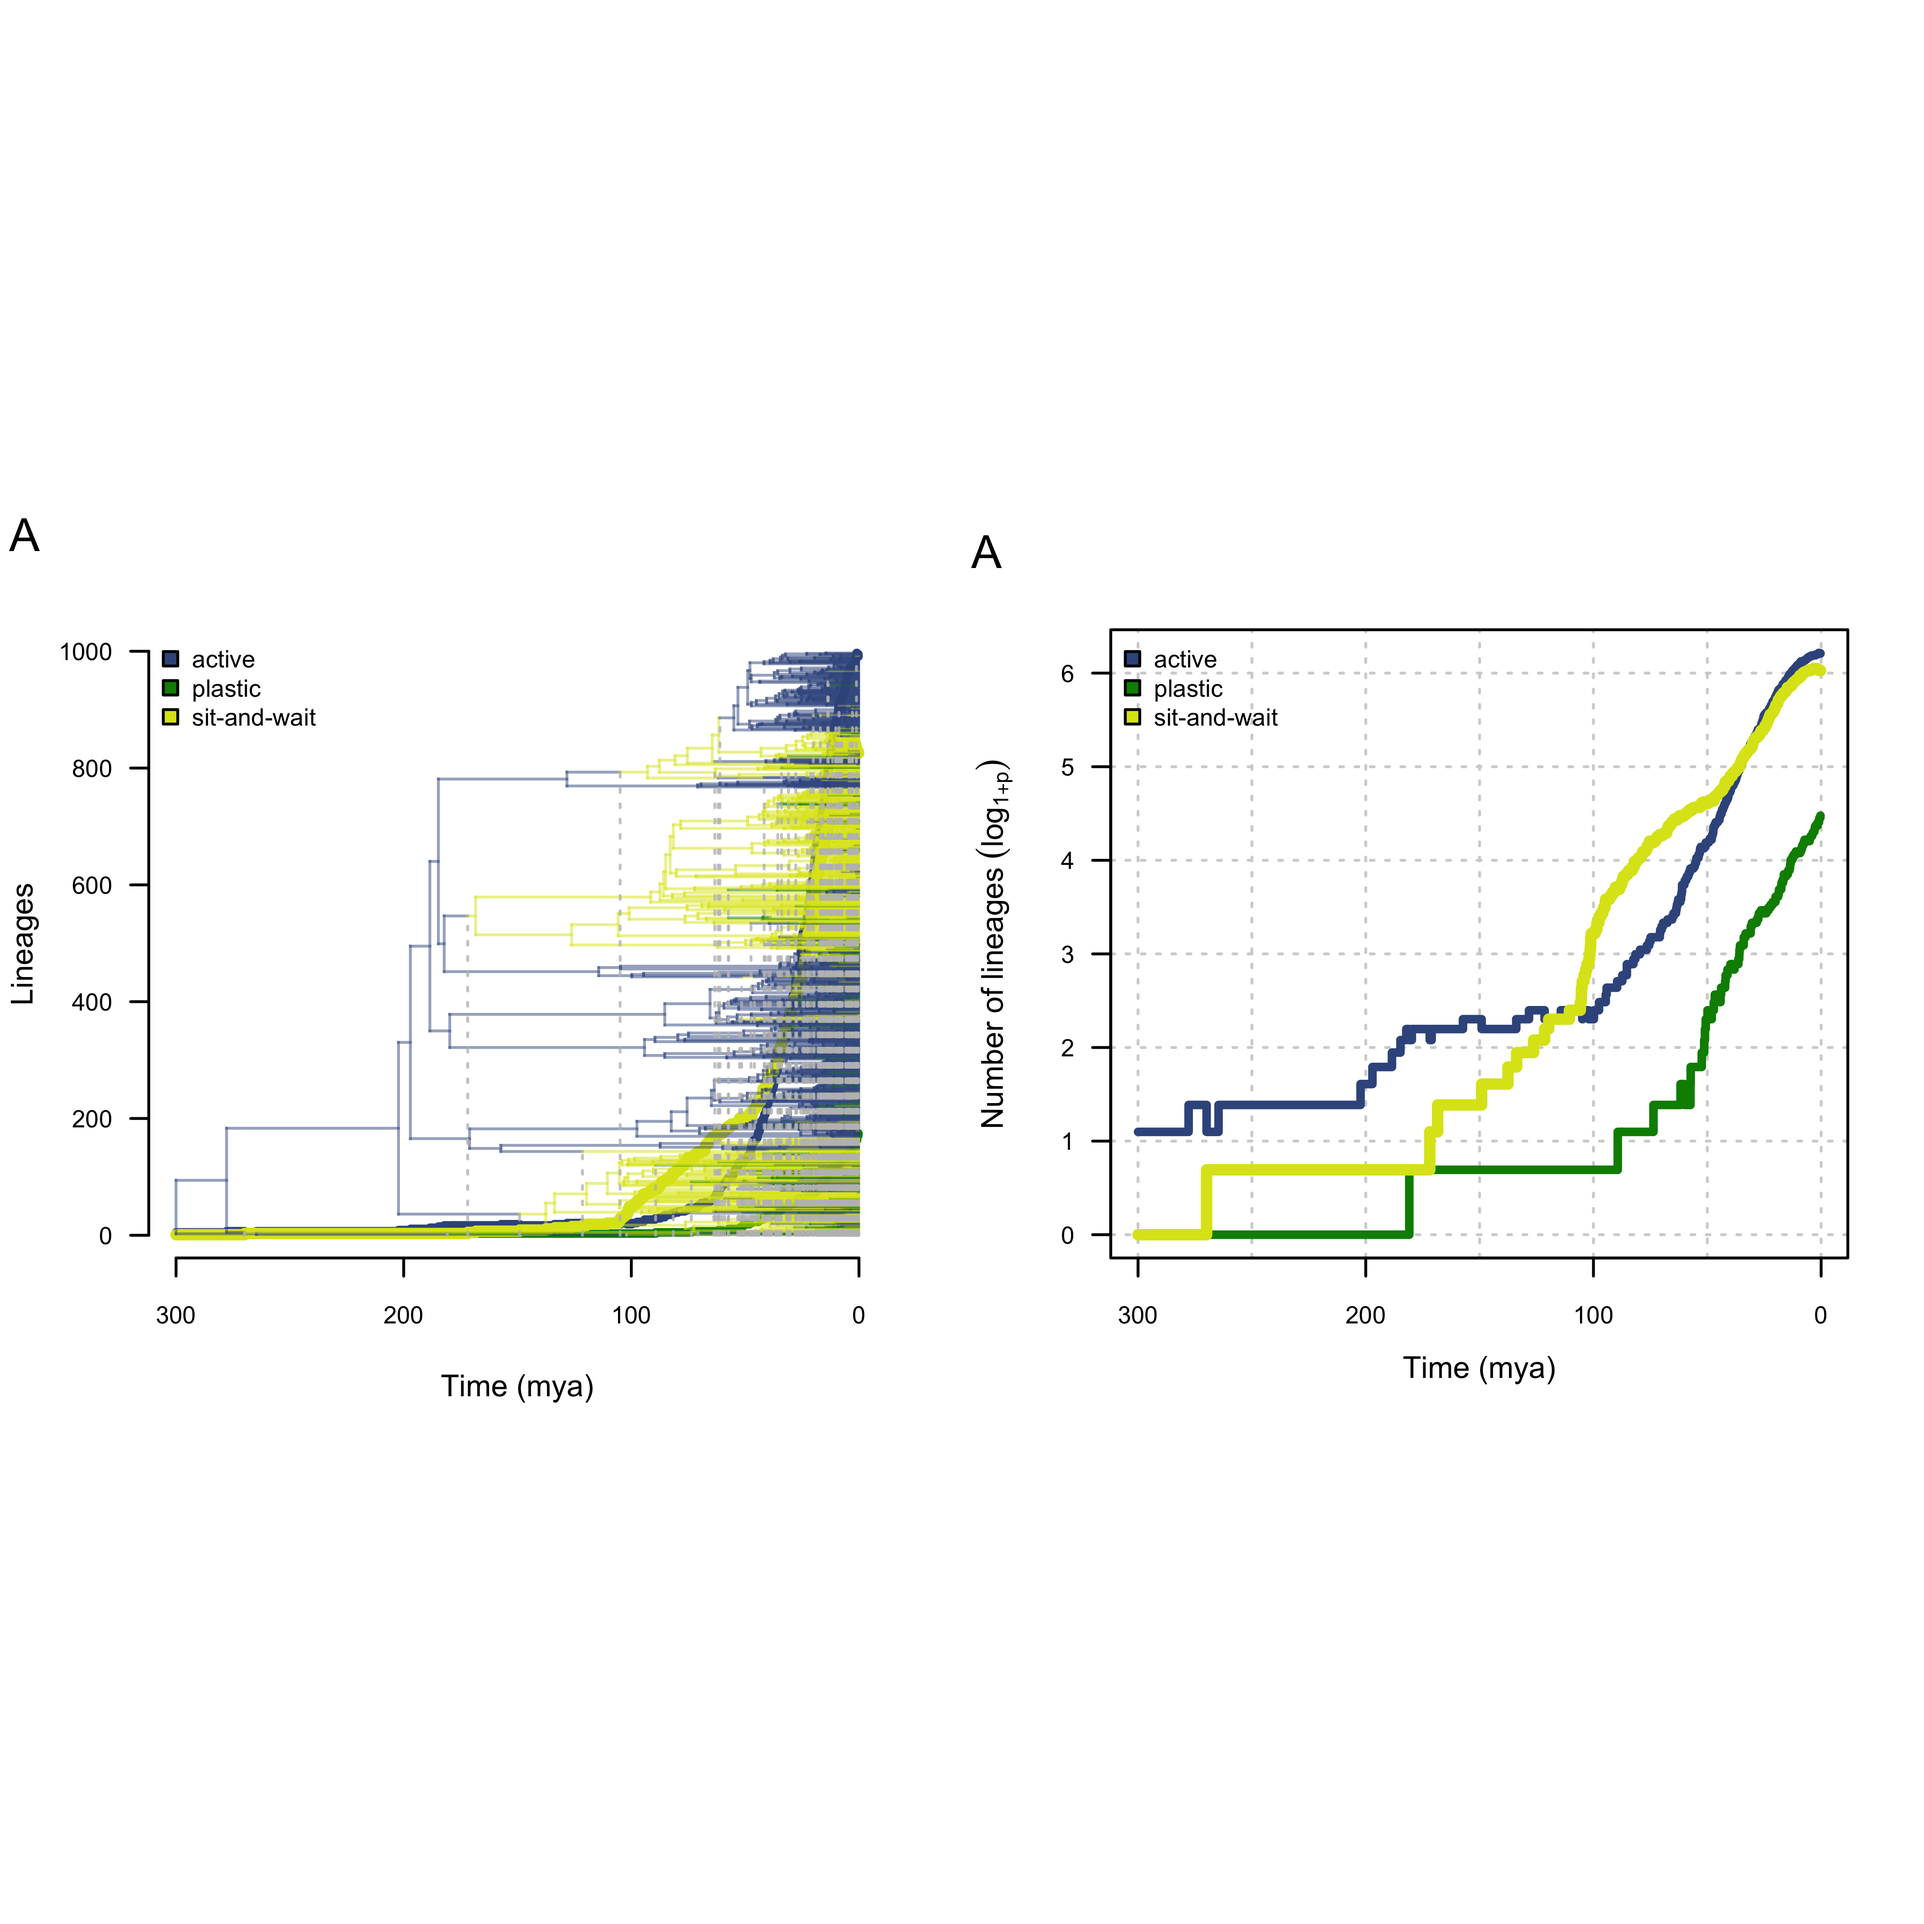
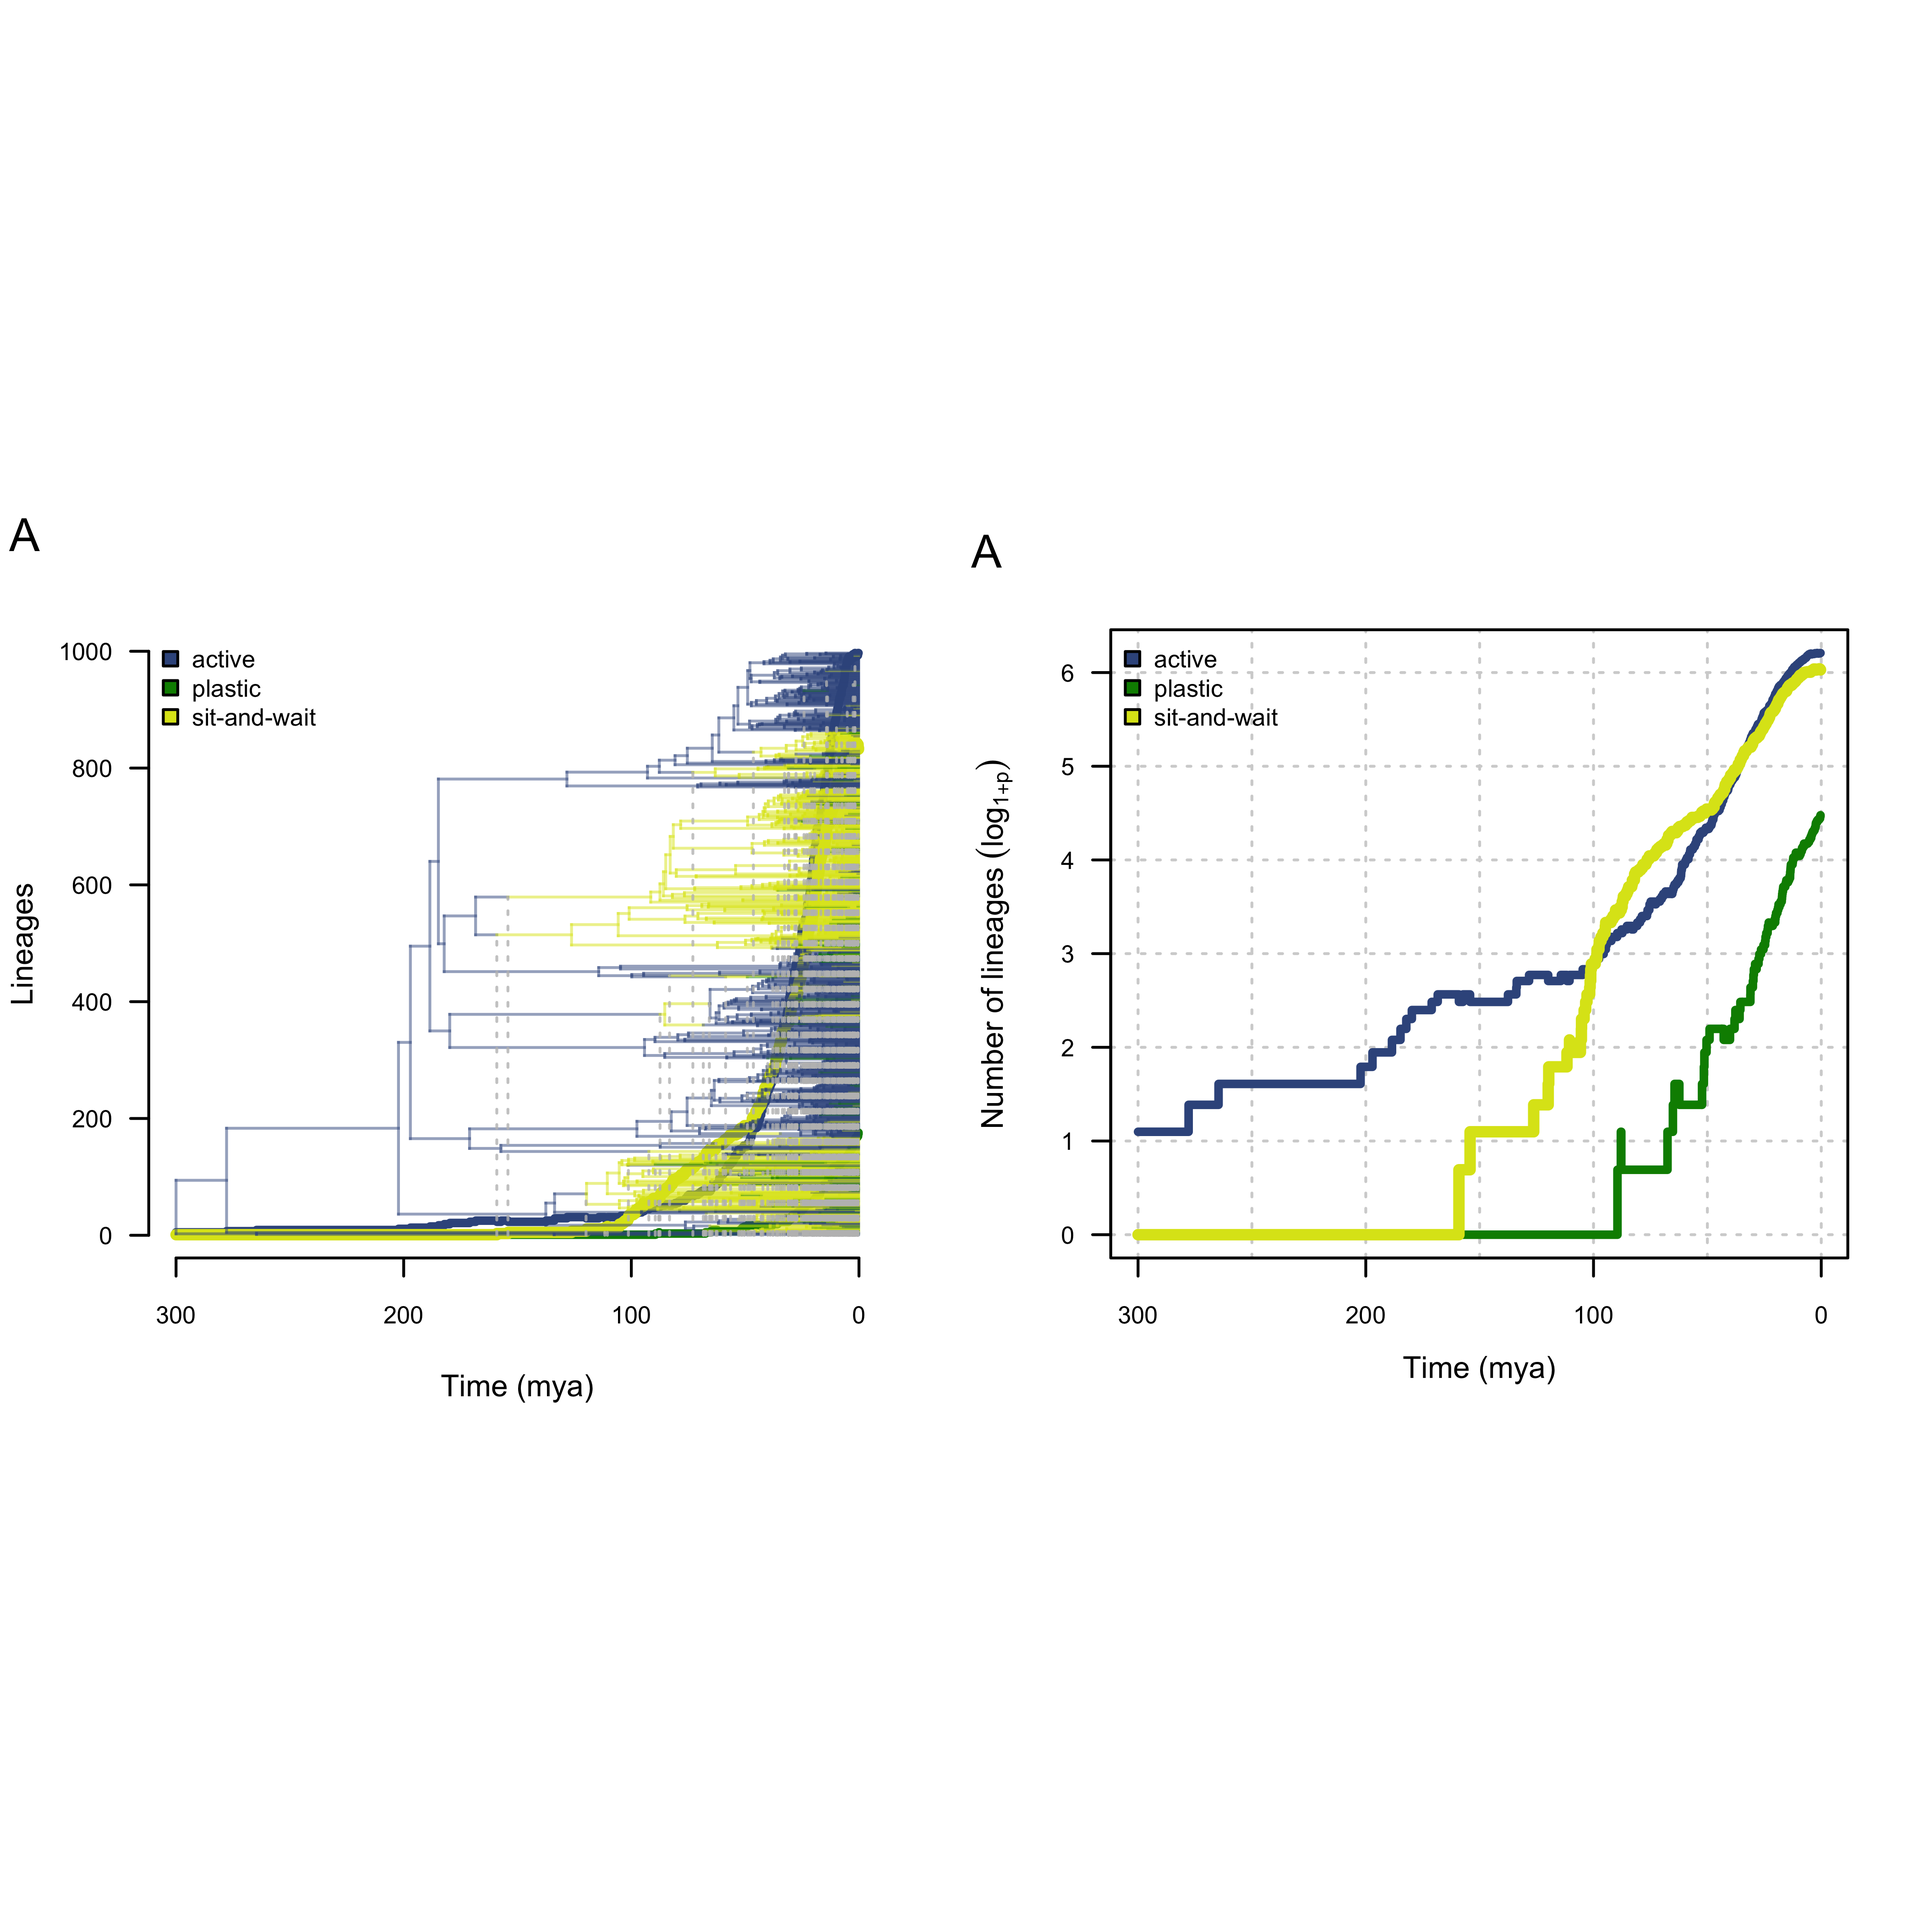
adding new manifesto

Changed region(s): [[0.6238, 0.4055, 0.9357, 0.655], [0.1248, 0.3743, 0.4679, 0.655]]

diff --git a/index.html b/index.html
@@ -6067,31 +6067,31 @@ pre > code.sourceCode > span > a:first-child::before { text-decoration: underlin
 <pre><code>&gt; 
 &gt; Fit
 &gt;       -lnL      AIC     AICc Rate.cat ntax
-&gt;  -301.5958 623.1917 623.7168        2  430
+&gt;  -302.6523 625.3045 625.8296        2  430
 &gt; 
 &gt; Legend
 &gt;     1     2     3     4 
 &gt; "0_0" "0_1" "1_0" "1_1" 
 &gt; 
 &gt; Rates
-&gt;             (1,R1)      (2,R1)      (3,R1)      (4,R1)       (1,R2)
-&gt; (1,R1)          NA 0.095817452 0.001059764          NA 2.300998e-02
-&gt; (2,R1) 0.095817452          NA          NA 0.005597538           NA
-&gt; (3,R1) 0.001059764          NA          NA 0.020363111           NA
-&gt; (4,R1)          NA 0.005597538 0.020363111          NA           NA
-&gt; (1,R2) 0.006188131          NA          NA          NA           NA
-&gt; (2,R2)          NA 0.006188131          NA          NA 1.000119e-09
-&gt; (3,R2)          NA          NA 0.006188131          NA 2.272881e-03
-&gt; (4,R2)          NA          NA          NA 0.006188131           NA
-&gt;              (2,R2)       (3,R2)       (4,R2)
-&gt; (1,R1)           NA           NA           NA
-&gt; (2,R1) 2.300998e-02           NA           NA
-&gt; (3,R1)           NA 0.0230099756           NA
-&gt; (4,R1)           NA           NA 0.0230099756
-&gt; (1,R2) 1.000119e-09 0.0022728813           NA
-&gt; (2,R2)           NA           NA 0.0042475586
-&gt; (3,R2)           NA           NA 0.0003845447
-&gt; (4,R2) 4.247559e-03 0.0003845447           NA
+&gt;             (1,R1)      (2,R1)      (3,R1)      (4,R1)      (1,R2)      (2,R2)
+&gt; (1,R1)          NA 1.00000e+02 0.000000001          NA 0.001571639          NA
+&gt; (2,R1) 1.00000e+02          NA          NA 0.000000001          NA 0.001571639
+&gt; (3,R1) 1.00000e-09          NA          NA 0.000000001          NA          NA
+&gt; (4,R1)          NA 1.00000e-09 0.000000001          NA          NA          NA
+&gt; (1,R2) 1.72723e-03          NA          NA          NA          NA 0.002596682
+&gt; (2,R2)          NA 1.72723e-03          NA          NA 0.002596682          NA
+&gt; (3,R2)          NA          NA 0.001727230          NA 0.002926485          NA
+&gt; (4,R2)          NA          NA          NA 0.001727230          NA 0.004861906
+&gt;             (3,R2)      (4,R2)
+&gt; (1,R1)          NA          NA
+&gt; (2,R1)          NA          NA
+&gt; (3,R1) 0.001571639          NA
+&gt; (4,R1)          NA 0.001571639
+&gt; (1,R2) 0.002926485          NA
+&gt; (2,R2)          NA 0.004861906
+&gt; (3,R2)          NA 0.003689104
+&gt; (4,R2) 0.003689104          NA
 &gt; 
 &gt; Arrived at a reliable solution</code></pre>
 </div>
@@ -6100,7 +6100,7 @@ pre > code.sourceCode > span > a:first-child::before { text-decoration: underlin
 <div class="sourceCode cell-code" id="cb225"><pre class="sourceCode numberSource r number-lines code-with-copy"><code class="sourceCode r"><span id="cb225-1"><a href="#cb225-1"></a><span class="fu">c</span>(HMM_3state_SYM<span class="sc">$</span>AICc, HMM_3state_ER<span class="sc">$</span>AICc, HMM_3state_ARD<span class="sc">$</span>AICc)</span></code><button title="Copy to Clipboard" class="code-copy-button"><i class="bi"></i></button></pre></div>
 </details>
 <div class="cell-output cell-output-stdout">
-<pre><code>&gt; [1] 623.7168 619.8273 630.5381</code></pre>
+<pre><code>&gt; [1] 625.8296 619.8274 627.5764</code></pre>
 </div>
 <details class="code-fold">
 <summary>Code</summary>
@@ -6111,8 +6111,8 @@ pre > code.sourceCode > span > a:first-child::before { text-decoration: underlin
 <span id="cb227-5"><a href="#cb227-5"></a><span class="fu">colMeans</span>(HMM_3state_ER<span class="sc">$</span>tip.states)</span></code><button title="Copy to Clipboard" class="code-copy-button"><i class="bi"></i></button></pre></div>
 </details>
 <div class="cell-output cell-output-stdout">
-<pre><code>&gt; [1] 0.04242882 0.05142455 0.12294709 0.10375662 0.03896653 0.09508707 0.36077384
-&gt; [8] 0.18461547</code></pre>
+<pre><code>&gt; [1] 0.04239587 0.05134265 0.12261679 0.10358625 0.03899948 0.09516898 0.36110414
+&gt; [8] 0.18478585</code></pre>
 </div>
 <details class="code-fold">
 <summary>Code</summary>
@@ -6993,7 +6993,7 @@ window.document.addEventListener("DOMContentLoaded", function (event) {
 <span id="cb231-210"><a href="#cb231-210"></a></span>
 <span id="cb231-211"><a href="#cb231-211"></a><span class="in">```</span></span>
 <span id="cb231-212"><a href="#cb231-212"></a></span>
-<span id="cb231-213"><a href="#cb231-213"></a><span class="in">```{r, include = FALSE}</span></span>
+<span id="cb231-213"><a href="#cb231-213"></a><span class="in">```{r,  include = FALSE}</span></span>
 <span id="cb231-214"><a href="#cb231-214"></a></span>
 <span id="cb231-215"><a href="#cb231-215"></a><span class="in">load('data/stochastic.map.sym.RData')</span></span>
 <span id="cb231-216"><a href="#cb231-216"></a></span>
